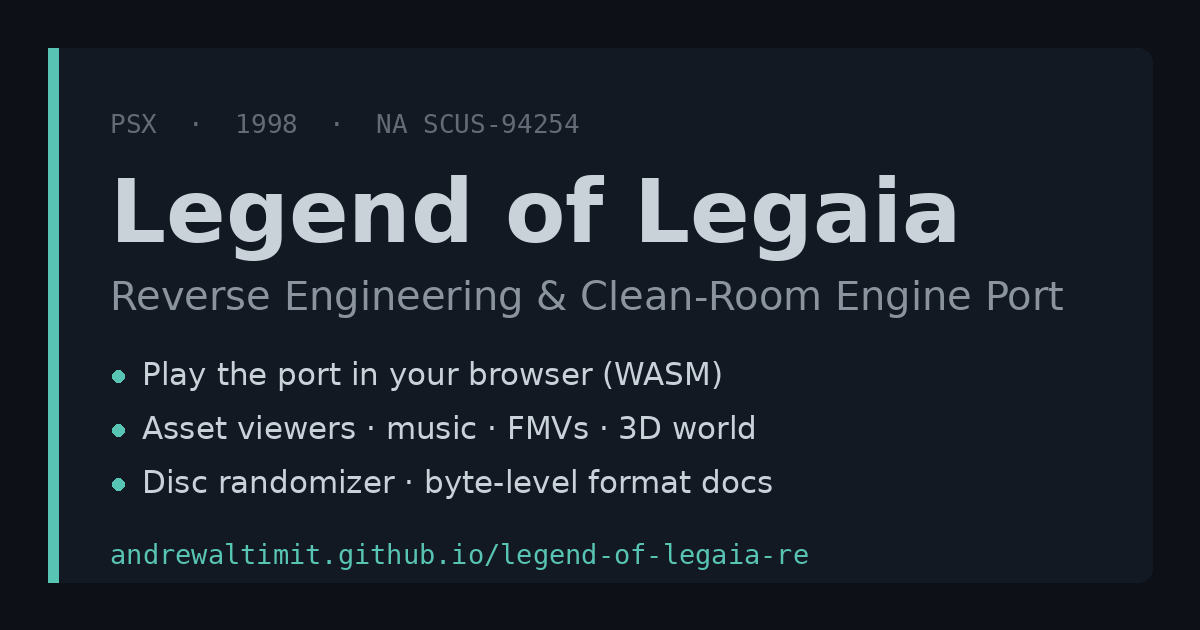
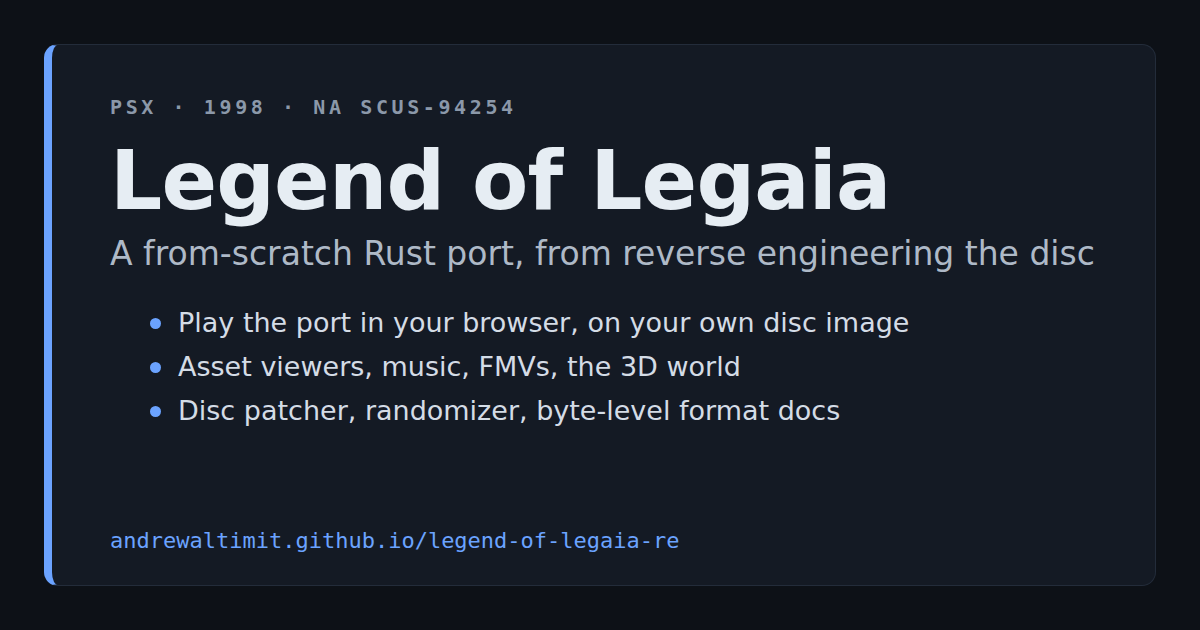
docs and site audit: map gaps, register rows with addresses, social card without the retired wording, light-theme contrast
The social card still advertised a clean-room port and the old palette. Rows
whose disassembly grade named no instruction now carry the addresses that settle
them, re-read from the dumps. The help footer says which subcommands need the
oracles build.

diff --git a/site/_content/subsystems/audio-internals.html b/site/_content/subsystems/audio-internals.html
@@ -211,6 +211,8 @@
     <summary>History: &ldquo;the engine is much the quieter side&rdquo;</summary>
     <div class="disclosure-body"><p>The comparison once read as the engine routing no reverb and sounding about half retail's voices. Both were instrument defects: the reverb figure was read from the SPU <em>control</em> register rather than the per-voice reverb-enable mask, and the oracle had built a bare SPU where the shipped host sets retail reverb. The voice-count gap was two different pieces of music - a town save reached from the world map still holds the overworld track.</p></div>
   </details>
+  <h3 id="retail-sound-code">Retail's own sound code beside the port</h3>
+  <p>Two differentials run retail's routines off a library state's RAM in the <a href="../tooling/retail-kernel-differential.html">R3000 interpreter</a> and compare them with the port, so neither needs an emulator's audio output. <code>legaia-engine seq-differential</code> runs retail's sequencer tick <code>FUN_80062F98</code> over a whole score beside the port's <code>Sequencer</code> and compares every sounding voice's registers at every vsync. <code>legaia-engine cue-differential</code> keys every sound-effect cue both ways in one state per scene, retail's side through <code>FUN_80016B6C</code>, and compares what each staged. Both are in a <code>--features oracles</code> build.</p>
 </section>
 
 <section class="doc-section" id="how-we-know">

diff --git a/site/_content/arts.html b/site/_content/arts.html
@@ -202,7 +202,7 @@ body.arts-live .art-card[data-art]:hover { outline: 1px solid #8C88EC; }
     <strong>Hyper Arts play no shout in retail</strong> - each fires a stereo fanfare from the character's fanfare bank (Vahn <code>XA1.XA</code>, Noa <code>XA3.XA</code>, Gala <code>XA5.XA</code>), coin-flipped between the art's own pair of channels; Super and Miracle Arts open with the same bank's generic fanfare. Every per-art channel was verified against a live instrumented battle.
   </p>
   <p>
-    Retail also draws a tinted after-image trail behind the character (Vahn <span style="color:#e0524a">red</span>, Noa <span style="color:#4ac05a">green</span>, Gala <span style="color:#5a7ae8">blue</span>). It starts off here for a clean view; tick the box to switch it on.
+    Retail also draws a tinted after-image trail behind the character (Vahn <span style="color:#e0524a">red</span>, Noa <span style="color:#2f9e44">green</span>, Gala <span style="color:#5a7ae8">blue</span>). It starts off here for a clean view; tick the box to switch it on.
   </p>
   <h3>The .glb export</h3>
   <p>

diff --git a/site/_content/tooling/rom-patcher.html b/site/_content/tooling/rom-patcher.html
@@ -1011,6 +1011,7 @@
   .rom-actions { margin-top: 1rem; }
   .rom-button { padding: 0.55rem 1.2rem; font-weight: 600; cursor: pointer; background: var(--accent); color: #06231f; border: none; border-radius: 6px; }
   .rom-button:hover { background: var(--accent-hi); }
+  :root[data-theme="light"] .rom-button:not(.rom-button-ghost) { color: #fff; }
   .rom-button:disabled { opacity: 0.6; cursor: progress; }
   .rom-button-ghost { background: transparent; color: var(--text); border: 1px solid var(--border); margin-right: 0.5rem; }
   .rom-button-ghost:hover { background: var(--bg-card-hi); border-color: var(--border-hi); }

diff --git a/site/css/styles.css b/site/css/styles.css
@@ -179,6 +179,9 @@
    ground; in the light theme they keep one rather than being re-picked. */
 :root[data-theme="light"] [class*="enemy-elem-"],
 :root[data-theme="light"] [class*="tile-cat-"] { background: #1a1e26; }
+/* That badge stays dark in the light theme, so its text keeps the dark theme's value. */
+:root[data-theme="light"] .tile-cat-town { color: #6ba3ff; }
+:root[data-theme="light"] .tile-cat-field { color: #c19a4d; }
 
 /* ---------- Reset ---------- */
 *, *::before, *::after { box-sizing: border-box; margin: 0; padding: 0; }

diff --git a/CLAUDE.md b/CLAUDE.md
@@ -17,7 +17,7 @@ The public framing is **a playable port and modding hub standing on Ghidra-trace
 
 **"Port" does not mean 1:1.** Retail behaviour is the measured ground truth - the traced dumps and parity oracles pin it exactly, and a retail-faithful mode stays available and testable - but the port is not bound by it. New features, mechanics, rendering and audio are in scope; enhancements ship enabled by default where they are clearly the better experience, with retail one toggle away.
 
-The enhancement layer today: enhanced lighting (moods, lamp lights, emissives, halos from `render-kernels::scene_lighting`; default-on on both hosts, `I` / `--no-dynamic-lighting` disables, `F8` cycles time of day), volumetric ground fog (default-off while it matures; `F9` turns it on), the camera-occlusion fade (see-through walls around the player, default-on on both hosts, `--no-occlusion-fade` / `F4` disables), SSAO over a depth + normal pre-pass (shading stays forward; default-on in `play-window`, `--no-ssao` / `Home` disables), precise free-angle movement (`options::precise_movement`), the debug orbit camera, and VR - all toggles that leave the faithful mode bit-identical when off.
+The enhancement layer today: enhanced lighting (moods, lamp lights, emissives, halos from `render-kernels::scene_lighting`; default-on on both hosts, `I` / `--no-dynamic-lighting` disables, `F8` cycles time of day), volumetric ground fog (default-off while it matures; `F9` turns it on), the camera-occlusion fade (see-through walls around the player, default-on on both hosts, `--no-occlusion-fade` / `F4` disables), SSAO over a depth + normal pre-pass (shading stays forward; default-on on both hosts, `--no-ssao` / `Home` disables), precise free-angle movement (`options::precise_movement`), the debug orbit camera, and VR - all toggles that leave the faithful mode bit-identical when off.
 Per-knob current defaults live in [`docs/subsystems/engine.md`](docs/subsystems/engine.md#fidelity-and-enhancements); a knob still defaulting to retail marks an enhanced side that is maturing, not a policy of restraint.
 
 The render path splits in two, and the halves point opposite ways. **Shading defaults to retail** (in the renderer; the play hosts layer enhanced lighting over it): the game's textured / colour mesh paths draw the TMD's baked colour word through the GTE depth cue with no light source - except the light-source rows (TMD group flags `0x10..=0x17`), which the field dispatcher sends to its `NCCS` / `NCCT` handlers and which shade through the GTE light ([`shading.md`](docs/subsystems/shading.md)).
@@ -38,7 +38,7 @@ The committed docs are organised topic-first under `docs/` - public-facing techn
 - [`README.md`](README.md) - public project overview, build instructions, license.
 - [`docs/overview.md`](docs/overview.md) - elevator pitch + how the layers stack from disc to sub-asset.
 - [`docs/porting-by-reimplementation.md`](docs/porting-by-reimplementation.md) - the general method: reimplementation beside decompilation and static recompilation, the seven steps with their gates, the feedback loops, the traps.
-- [`docs/guides/`](docs/guides/getting-started.md) - task-oriented user guides: getting-started, extracting-assets, playing-and-viewing, modding-and-translation.
+- [`docs/guides/`](docs/guides/getting-started.md) - task-oriented user guides: getting-started, extracting-assets, playing-and-viewing, modding-and-translation, translating, making-expansion-packs.
 
 ### Formats - [`docs/formats/`](docs/formats/overview.md)
 
@@ -136,7 +136,7 @@ How the runtime engine works.
 | [`browser-host.md`](docs/subsystems/browser-host.md) | The browser host module by module: what the wasm bundles (`web-play` + `web-minigames` in both, `web-patcher` + `web-expansion` + `web-viewer` in the tool one) export for the play page, the minigames page, the game-modes page, the viewer pages, the ROM patcher and the expansion workbench. |
 | [`shading.md`](docs/subsystems/shading.md) | How a pixel gets its colour: texel index -> CLUT read from **VRAM** (not the file) -> `texel * colour / 128` -> depth cue -> blend -> dither. No light source. Why exported palettes look wrong. |
 | [`vr-mode.md`](docs/subsystems/vr-mode.md) | WebXR `immersive-vr` on the site's 3D pages: the flat renderer stays the geometry source, only the framebuffer and view-projection fork per eye. |
-| [`audio.md`](docs/subsystems/audio.md) | PsyQ libsnd / libspu stack, SsAPI sequencer, SPU DMA engine; the cold scene-entry sequence every host owes, and how BGM parity is measured against a save state. |
+| [`audio.md`](docs/subsystems/audio.md) | PsyQ libsnd / libspu stack, SsAPI sequencer, SPU DMA engine; the cold scene-entry sequence every host owes, and how BGM parity is measured against a save state (`audio-sweep`, `pcm-retail`, `seq-differential`, `cue-differential`). |
 | [`script-vm.md`](docs/subsystems/script-vm.md) | Field/event VM at `FUN_801DE840` (overlay-resident, 43 opcodes). Op `0x46` is `VIEW_WINDOW` (camera tile window, not fog); talking to an NPC is a button press, not an opcode. |
 | [`script-vm-menuctrl.md`](docs/subsystems/script-vm-menuctrl.md) | Op `0x4C` `MENU_CTRL`, whose outer high nibble selects 16 sub-dispatchers; split out of `script-vm.md` for length. |
 | [`tile-board.md`](docs/subsystems/tile-board.md) | Tile-board grid mode (puzzle / board minigame), NOT general town locomotion. `width×height` byte cell array (cell `2` = wall) + per-cell tile-actor rendering; installed inline in the field-VM script by op `0x49` (`_DAT_8007b450`); walk SM at `overlay_0897_801ef2b0`. |
@@ -224,7 +224,7 @@ How the runtime engine works.
 | [`reusing-for-other-ps1-games.md`](docs/tooling/reusing-for-other-ps1-games.md) | Which crates and scripts carry to another PS1 title (generic / Legaia quirks named / Legaia-only), how to depend on them, and the transferable method pages. |
 | [`releases.md`](docs/tooling/releases.md) | Tagged-release pipeline: a `v*` tag builds per-target archives + `SHA256SUMS` onto its GitHub release. The runner is **arm64**, so x86_64 builds are cross-compiles. Never game data. |
 | [`shell-observer-traps.md`](docs/tooling/shell-observer-traps.md) | Three shell defects where the observer sits inside the thing it observes: pipe exit status read off the wrong stage, `pkill`/`pgrep -f` matching the caller's own command line, `grep`'s no-match exit 1 read as failure. Gate `check-shell-observer-traps.py`; helpers `scripts/lib/proc.sh`. |
-| [`host-drift.md`](docs/tooling/host-drift.md) | Three hosts on one engine (native play-window, browser play page, minigames page): the gate tiers that catch a feature wired into only one, and the shapes a one-host reading gets backwards. |
+| [`host-drift.md`](docs/tooling/host-drift.md) | Three hosts on one engine (native play-window, browser play page, minigames page): the gate tiers that catch a feature wired into only one, the shapes a one-host reading gets backwards, and `scripts/ci/host-pair.mjs` running the window and the page on one pad script. |
 | [`shipped-bundle-freshness.md`](docs/tooling/shipped-bundle-freshness.md) | A local `site/wasm/` bundle goes stale invisibly; content-addressed stamp + `check-wasm-freshness.py`. |
 | [`site-shell.md`](docs/tooling/site-shell.md) | The static site's app shell across breakpoints, the silent-shadowing traps and their gates (CSS `@media` order, split case folds, module syntax in classic scripts), shared `site-util.js` helpers, and page delivery rules. |
 | [`dependency-policy.md`](docs/tooling/dependency-policy.md) | Third-party inputs: the 14-day publish cooldown, what is pinned where (lockfile, action SHAs, CI tools, the Ghidra image digest), and the `cargo deny check advisories` gate with its `deny.toml`. |
@@ -355,7 +355,7 @@ The edges among the engine's kernel crates are a committed table (`scripts/ci/cr
 | [`crates/engine-export`](crates/engine-export/README.md) | - | The `.glb` world exporter behind `legaia-engine export-glb` (`glb_export`): world / NPC / animated-prop / item / party `.glb`s, traversal data and manifests. Above `engine-core` - it steps a scratch `World`; no play host links it. |
 | [`crates/engine-capture`](crates/engine-capture/README.md) | - | Standing the engine where a retail capture stood: the seed records, phase gates and pad drives, with their environment form in both directions. `parity` derives them from retail RAM, the `play-window` capture child reads them back; no RAM or save-state reader. |
 | [`crates/parity`](crates/parity/README.md) | - | The engine measured against retail: the VRAM / mode / audio / PCM oracles, the recomp differential's `sim_trace`, and the retail comparison corpus (`retail_compare*`). Drives the native session (`engine-session::native`); tool code no play host links. |
-| [`crates/engine-shell`](crates/engine-shell/README.md) | `legaia-engine` | Top-level native driver: `play` / `play-window`, `save` / `load`, `play-str`, `record` / `replay`, `config`, and the parity-oracle subcommands; `--help` groups every one. |
+| [`crates/engine-shell`](crates/engine-shell/README.md) | `legaia-engine` | Top-level native driver: `play` / `play-window`, `launch --disc` (what the launcher's Play starts, no screen), `save` / `load`, `play-str`, `record` / `replay`, `config`, and the parity-oracle subcommands behind `--features oracles`; `--help` groups every one. |
 | [`crates/asset-viewer`](crates/asset-viewer/README.md) | `asset-viewer` | Combined viewer: TIM, TMD, VAB, SEQ, stage geometry, PROT browser, scene-bundle presets, `save-icons` sheet, dialog box, field-VM scene runner with dialog rendering, battle-scene SM driver, and `world` (the `engine-core` composite ticking over a CDNAME scene). |
 | [`crates/web-play`](crates/web-play/README.md) | - | The browser play page: `LegaiaRuntime` (the native window's `BootSession`), plus the field actor layer the viewer shares. An rlib; its exports ship in both wasm bundles. |
 | [`crates/web-minigames`](crates/web-minigames/README.md) | - | The browser minigames page: `LegaiaMinigames`, a JSON shell over the minigame rules engines with no `World`. The play page holds one for in-world minigame art. Also `LegaiaModes`, the disc-free game-modes page's mode seat. An rlib below `web-play`. |

diff --git a/docs/reference/re-settled-threads/audio.md b/docs/reference/re-settled-threads/audio.md
@@ -35,7 +35,7 @@ Threads whose answer needs more than a table cell. Every other thread is a row o
 | Thread | Status | Evidence | Answer |
 |---|---|---|---|
 | What does PROT 0944's voice follow? | resolved | `disassembly` | The roll arm `0` latches: `FUN_801DD6B4(0x38E, ..)` at `0x801F6AD8`, then `0x1AD` when the victim's HP is below it and `0x1AB` otherwise (`sltu` at `0x801F6B2C`), so Cort announces a kill. The hit lands on arm `3`. No retail recording of the cast has been scored. |
-| Does a note-off look at the channel? | resolved | `disassembly` + [differential](../../subsystems/audio.md#the-keying-differential) | No. `FUN_8006688C` tests owner, VAB, program and key, the program being the channel's as it stands, so a program change strands a held note and a sibling channel's note-off releases it. |
+| Does a note-off look at the channel? | resolved | `disassembly` + [differential](../../subsystems/audio.md#the-keying-differential) | No. `FUN_8006688C` tests key, program, owner and VAB (`bne` at `0x80066904`, `0x8006691C`, `0x80066934`, `0x8006694C`), the program being the channel's as it stands (`lbu a2,0x37(a2)` in the caller at `0x80061BDC`), so a program change strands a held note and a sibling channel's note-off releases it. |
 | When is a cast's voice heard? | resolved | `disassembly` + `capture` | On the arm of `ctx[+0x279]` that holds the head cue's `FUN_8004FCC8` call, past the module's seek and stream wait: the caller log has PROT 0904's call on arm `3`, `120` vsyncs into the phase byte's walk, where the port had raised it at the arming seam. Port: `module_head_cue_arm`, `World::raise_cast_voice_on_arm`. |
 | How long does a CD-XA clip take to start after its trigger? | resolved (on mednafen) | `capture` | `62` or `88` ms with the head in the clip's file and `371` ms from another file, plus one sector per channel: [a clip's start](../../subsystems/audio.md#a-clips-start). No console has been timed. |
 | Is the `zeto_call_wave_mid_cast` track level a mix-law gap? | resolved (no) | `capture` | The `+5.09` dB is the cast's own cues: per two-second window `+4` to `+14` dB over the recording's first six seconds, then within `0.11` dB to its end. |
@@ -44,7 +44,7 @@ Threads whose answer needs more than a table cell. Every other thread is a row o
 | What is `0x8007B724`? | resolved | `disassembly` + `capture` | The last sustained cue the drainer keyed (`sw s0,0x40c(gp)` at `0x80016DC8`), `-1` after the teardown. The battle funnels drop a repeat against it ([the repeat rule](../../formats/sfx-table.md#a-held-sustained-cue-drops-its-repeat)). `tunnelb_nova_pre_scythe_wind`: the caster's cue cursor steps twice, the ring takes `0x253` once. |
 | When does a fight's music change? | resolved | `disassembly` + `capture` | The intro init keys the field track off for sound set `0`, three vsyncs after the mode-`8` store; the battle track attaches at the mode-`0x14` store, `139` vsyncs after it ([timeline](../../subsystems/audio.md#the-battle-music-timeline)). |
 | Does the sequencer key notes on a coarser grid than retail? | resolved (no) | `capture` + `inference` | Under PCSX-Redux `FUN_80065BAC` holds its vsync phase within `0.2` of a sample on a field and a battle state; the KON write falls `8.7` to `20.8` samples after its entry, by the frame's work. The port against its own render with that spread at random reads the same residual as retail, so the `track` channel's `-12` to `-15` dB is CPU cost ([real retail PCM](../../subsystems/audio.md#real-retail-pcm)). |
-| Does a channel hold its pitch-bend wheel for later notes? | resolved (no) | `disassembly` + `capture` | `FUN_8006166C` reads the wheel byte, hands it to the voice scan `FUN_80067A1C` and stores it nowhere, so a key-on plays at its own pitch. `party_battle_gobu_gobu`'s track `2026` leaves channel 0 at wheel `0x0F` and retail's later notes read `0x80E`, the note's own; holding the wheel gave `0x4C2` and a `0.743` PCM correlation, `0.987` without ([sequencer port](../../subsystems/audio.md#engine-audio-model---sequencer-port)). |
+| Does a channel hold its pitch-bend wheel for later notes? | resolved (no) | `disassembly` + `capture` | `FUN_8006166C` reads the wheel byte (`lbu a3,0x0(a3)` at `0x800616DC`), hands it through `FUN_80067C1C` to the per-voice scan `FUN_80067A1C` and stores it nowhere: the only store after the read is the delta time at `0x800616FC`. So a key-on plays at its own pitch. `party_battle_gobu_gobu`'s track `2026` leaves channel 0 at wheel `0x0F` and retail's later notes read `0x80E`, the note's own; holding the wheel gave `0x4C2` and a `0.743` PCM correlation, `0.987` without ([sequencer port](../../subsystems/audio.md#engine-audio-model---sequencer-port)). |
 | Does any XA stream on the NA disc use 8-bit ADPCM? | resolved (no; every channel is 4-bit at 37.8 kHz) | `capture` | `demux-disc-all` reports `bits_per_sample = 4` for all 316 channels across the 34 `*.XA` files. The 8-bit decode path is covered by synthetic tests only and is wired through the demux, CLI and cutscene consumers, which map each channel's reported width ([xa.md](../../formats/xa.md)). |
 | Does a BGM track change close the side-band (3) or reward (11) VAB slot? | resolved (no) | `disassembly` | `FUN_800243F0` loads each track into slot 1 (`0x80024678` / `0x80024780`) and never calls the closer `FUN_8001FF58`. Slot 3 is closed by the battle mode init; slot 11 by the field init `FUN_801D6704` (`0x801D68A4..0x801D68B8` closes 7, 8 and 11 through delay-slot `a0`). Port `legaia_engine_audio::bgm_tail`, shared by both directors. |
 | Does retail age SFX cues under the pause menu or a shop? | resolved (yes) | `disassembly` | Mode `0x17`'s per-frame handler `FUN_80025F74` calls the drainer `FUN_80016B6C` at `0x80025F9C`, gated only on `FUN_8001698C` and `FUN_80017978` returning 0. Both hosts now step the scheduler there. |

diff --git a/docs/reference/re-settled-threads/field.md b/docs/reference/re-settled-threads/field.md
@@ -140,7 +140,7 @@ Threads whose answer needs more than a table cell. Every other thread is a row o
 | Why did 28 scenes of the frontier closure become unwalkable at once? | resolved (a scene change mid-ledge-hop leaked the hop's one-way steering lock - an engine bug, fixed) | `disassembly` + `capture` | [details ↓](#the-ledge-hop-lock-leak) |
 | What consumes the scratchpad window `0x1F8003E8..EB`? | resolved (the renderer's visible tile window; the `0x801F2778..84` mirrors are write-only) | `disassembly` | Four signed bytes `[nearX, nearZ, farX, farZ]`, tile offsets from the camera tile, written by the camera-zone loader `FUN_801DBC20` and field-VM op `0x46`. Read by the render library's cell emitters (`FUN_801F7088` at `0x801F7434..0x801F746C` and siblings), the camera scroll clamp `FUN_801DAA50`, the ambient emitter `FUN_801D6058` and dev-menu rows `0x12..0x15`. Invisible to the word scan: every access is `lui 0x1F80; ori 0x314; lb 0xD4(rX)`. Details: [`encounter.md`](../../formats/encounter.md#the-scratchpad-window-0x1f8003e8eb). |
 | What is the field run-button mask `0x800846DC`? | resolved (`0x48` = Cross \| R1, seeded once by the new-game data init; not configurable) | `disassembly` | The last of four button-mask words at `0x80084140 + 0x590..0x59C` (`0x44`, `0x21`, `0x10`, `0x48`), stored by `FUN_80034A6C` (`0x80034AA0..0x80034AB8`) and read by the field mover at `0x801D0364` against the held mask `_DAT_8007B850`. No other writer in SCUS or any overlay; it sits inside the saved block. The engine's default mask is the retail pair plus Square (`FIELD_RUN_BUTTON_MASK_DEFAULT`); `FIELD_RUN_BUTTON_MASK_RETAIL` is the exact set ([`field-locomotion.md`](../../subsystems/field-locomotion.md)). |
-| Who latches the clip-end bit for a conversation's cross-context clip pokes | resolved (port residual named) | `disassembly` + `capture` | The **poked actor's own anim tick**, on the poked actor's own `+0x62`. `FUN_8003C83C` short-circuits target `0xF8` to the live player object out of `_DAT_8007C364` before its actor-list walk, so an NPC record's `A2 F8 <clip>` / `AC F8 08` / `AD F8 08` reads and writes the *player's* clip words. [details ↓](#clip-end-latch-for-cross-context-clip-pokes) |
+| Who latches the clip-end bit for a conversation's cross-context clip pokes | resolved (port residual named) | `disassembly` + `capture` | The **poked actor's own anim tick**, on the poked actor's own `+0x62`. `FUN_8003C83C` short-circuits target `0xF8` to the live player object out of `_DAT_8007C364` before its actor-list walk (`0x8003C83C..0x8003C854`), so an NPC record's `A2 F8 <clip>` / `AC F8 08` / `AD F8 08` reads and writes the *player's* clip words. [details ↓](#clip-end-latch-for-cross-context-clip-pokes) |
 | What is the `scene_asset_table` header's `+0x04` word? | resolved (sum of the descriptors' decompressed sizes; never read) | `disassembly` | Equals `Σ descriptor.size` in all 105 containers of the family on the disc and exceeds the carrying entry in every one; `FUN_80020224` reads `+0x00` (`lw s3,0x0(s4)` at `0x80020288`) and steps descriptors from `+0x08`, and a corpus sweep for loads off `*(0x8007B85C)` finds offset `0` only. |
 | How does a scene bundle reach `_DAT_8007B85C`? | resolved (whole-sector block copy) | `disassembly` | `FUN_8003D26C(*(0x8007B85C), *(0x8007B8C4), sectors << 6)` at `0x801D6918` (32 B per iteration = `sectors * 0x800`), into the `0x62C00` arena `FUN_8001E1B4` allocates at `0x8001E28C`. |
 | What consumes the "field-pack" entries? | resolved (the scene texture pack at block `+4`) | `disassembly` | `FUN_800255B8` builds the path by mode (`tim.dat` `0x0A`, `move.mdt` `0x0F`, `<scene>.pac` `0x14`) and loads into `*(0x8007B85C)`; `FUN_8002541C` walks a bare pack into `FUN_800198E0` (mode `0x0A`) or the chunk chain into `FUN_8001F05C` (mode `0x14`). Not a format of its own - see [`field-pack.md`](../../formats/field-pack.md). |

diff --git a/crates/engine-shell/README.md b/crates/engine-shell/README.md
@@ -46,7 +46,8 @@ retail comparison corpus - live in
 [`legaia-parity`](../parity/README.md).
 
 The subcommands that call into it (`vram-oracle`, `mode-trace`, `sim-trace`,
-`audio-trace`, `pcm-trace`, `retail-compare`, `cast-sequence-score`) and the
+`audio-trace`, `pcm-trace`, `retail-compare`, `cast-sequence-score`,
+`audio-sweep`, `pcm-retail`, `seq-differential`, `cue-differential`) and the
 play window's `LEGAIA_DIAG_CAST_SEQ` frame shots build only with the
 default-off `oracles` feature:
 
@@ -77,7 +78,7 @@ authoritative list; the broad groups are:
 | Asset export | `export-glb` | Bake a scene (or `--all-scenes`) into textured world / NPC / animated-prop `.glb`s + a placement manifest for Unity/VRChat or Blender; `--items` exports every equipment item as animated item-alone / with-limb `.glb`s, `--party` the party's field forms as villager-shaped `.glb`s ([`docs/tooling/vrchat-world-export.md`](../../docs/tooling/vrchat-world-export.md)). |
 | Mesh catalog | `mesh-catalog` | Measure a field scene's geometry pack into the expansion-pack borrowed-mesh catalog (labels kept) and draw a numbered contact sheet to label from ([`expansion-pack-maps.md`](../../docs/formats/expansion-pack-maps.md#the-mesh-catalog)). |
 | Save / config | `save`, `load`, `config` | Disk-save smoke round-trip + the keyboard→pad input mapping. The window's own Save writes a block of `saves/memcard1.mcr` with the loaded scene as its resume point, and Continue / Load re-enter that scene before hydrating the world, as retail does; `save` / `load` / `--resume-save` still read and write LGSF slot files. `load --card <image>` reads a block out of a real PSX memory-card image instead ([below](#memory-card-images)). |
-| Parity oracles | `vram-oracle`, `mode-trace`, `audio-trace`, `pcm-trace`, `sim-trace`, `replay`, `scenarios`, `retail-compare`, `cast-sequence-score` | The harnesses above, plus the recomp differential's engine-side emitter, deterministic replay, the scenario-hash suite, the [retail comparison corpus](../../docs/tooling/retail-compare.md) and the [cast-sequence oracle](../../docs/tooling/cast-sequence-oracle.md). |
+| Parity oracles | `vram-oracle`, `mode-trace`, `audio-trace`, `pcm-trace`, `sim-trace`, `retail-compare`, `cast-sequence-score`, `audio-sweep`, `pcm-retail`, `seq-differential`, `cue-differential` (these behind `oracles`), `replay`, `scenarios` | The harnesses above, plus the recomp differential's engine-side emitter, deterministic replay, the scenario-hash suite, the [retail comparison corpus](../../docs/tooling/retail-compare.md) and the [cast-sequence oracle](../../docs/tooling/cast-sequence-oracle.md). |
 | Synthetic sessions | `inventory`, `equip`, `title`, `save-select`, `encounter`, `target-pick`, `chain-editor`, `seru-capture`, `gte-replay` | Drive one engine subsystem's state machine headless from a scripted input string - no disc required. |
 
 ### Memory-card images

diff --git a/docs/tooling/pcsx-redux-automation.md b/docs/tooling/pcsx-redux-automation.md
@@ -1786,6 +1786,24 @@ Two consequences for `juui1` in particular:
   dispatcher 600 times and sees **zero** op-`0x3F` doors. The player is not
   near that exit, so the donor has to come from a new capture either way.
 
+#### One-question probes
+
+Each answers one question from its own save state; its header says which state and what the output means. Pages that cite a probe explain it in place, and these are the ones no page cites.
+
+| Probe | Question |
+|---|---|
+| `autorun_arts_input_press.lua` | Injects directional presses on an off-class weapon and read-watches the party weapon bytes: where the arm-width consult fires. |
+| `autorun_chest_give_trace.lua` | Does a randomized chest item reach the running game's op `0x39`? |
+| `autorun_delilas_e2e.lua` | End-to-end verdict for a `--delilas-party` disc, from a field state to a natural encounter. |
+| `autorun_gaza2_magic_wedge.lua` | The Gaza rematch's camera-orbit softlock, from a state at the start of the fight. |
+| `autorun_opening_capture.lua` | Retail frames of the whole New Game opening, cold boot to the Rim Elm name entry. |
+| `autorun_pause_vram_upload_trace.lua` | Which upload writes the pause path's changed words of VRAM row 271. |
+| `autorun_tetsu_confirm.lua` | Drives the spar menu cursor to its training-fight row and asserts the battle mode. |
+| `autorun_w1a_view_window_cross.lua` | Does a scripted camera tile window survive into the next scene? |
+| `autorun_w3a_field_walk.lua` | One field anchor, a scripted pad ladder, optional breakpoint banks and a per-vsync poll. |
+
+`dump_flag_bank_from_sstate.py` dumps the story-flag bank from states; `record_interactive.sh` starts the input recorder, retrying through a resume that crashes early.
+
 ### Save-state to Python (offline analysis)
 
 | Script | Input | Output |

diff --git a/docs/guides/playing-and-viewing.md b/docs/guides/playing-and-viewing.md
@@ -369,7 +369,8 @@ bindable key deletes that button from the keyboard entirely. The bindable
 vocabulary is the table above plus `C`, `V`, `D` and `E`. Every window toggle
 is an F-key or `Home` / `End`, which the pad lookup never resolves, or a letter outside
 that vocabulary (`I`, `R`, `T`, `Y`, the dev triggers, and the minigame entries below), so no
-rebinding can collide with one.
+rebinding can collide with one. With an expansion pack, `\` opens its card menu and `` ` `` its
+game-mode picker over the field; `Tab` opens the [multiplayer screen](#playing-online).
 
 `--boot-ui` starts at the title screen → save-select flow instead of jumping
 into the scene.
@@ -619,7 +620,8 @@ name, and press Join. A browser cannot host. A page served over
 `https://` can only reach `wss://`, so playing from the published site
 needs the relay behind a TLS proxy; a page served locally over `http://`
 reaches `ws://` directly. A standalone `legaia-relay --bind 0.0.0.0:7462`
-hosts rooms without a game window.
+hosts rooms without a game window (a source build's binary, not in the release
+archive).
 
 **Party night.** The host's Game row lists party nights first
 (**Practice Night** with no pack, **Tower Game Night** with the sample pack): a
